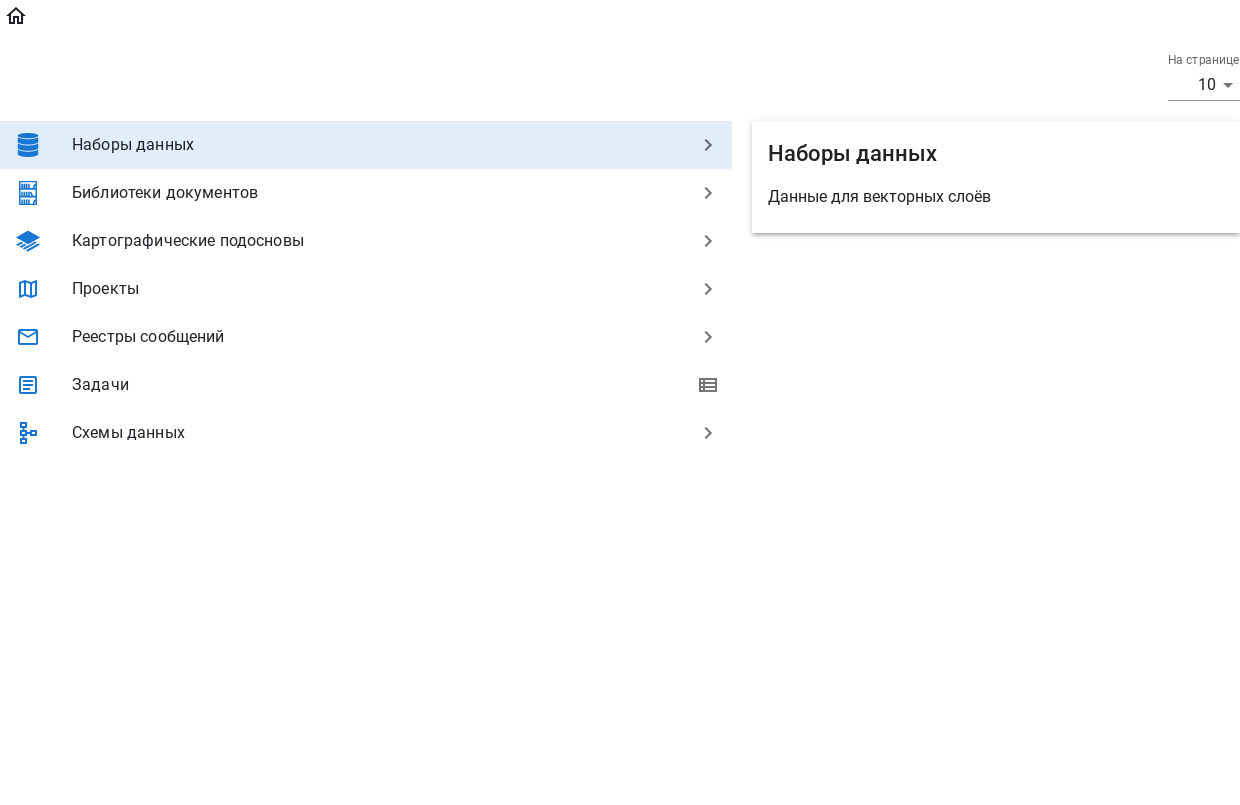
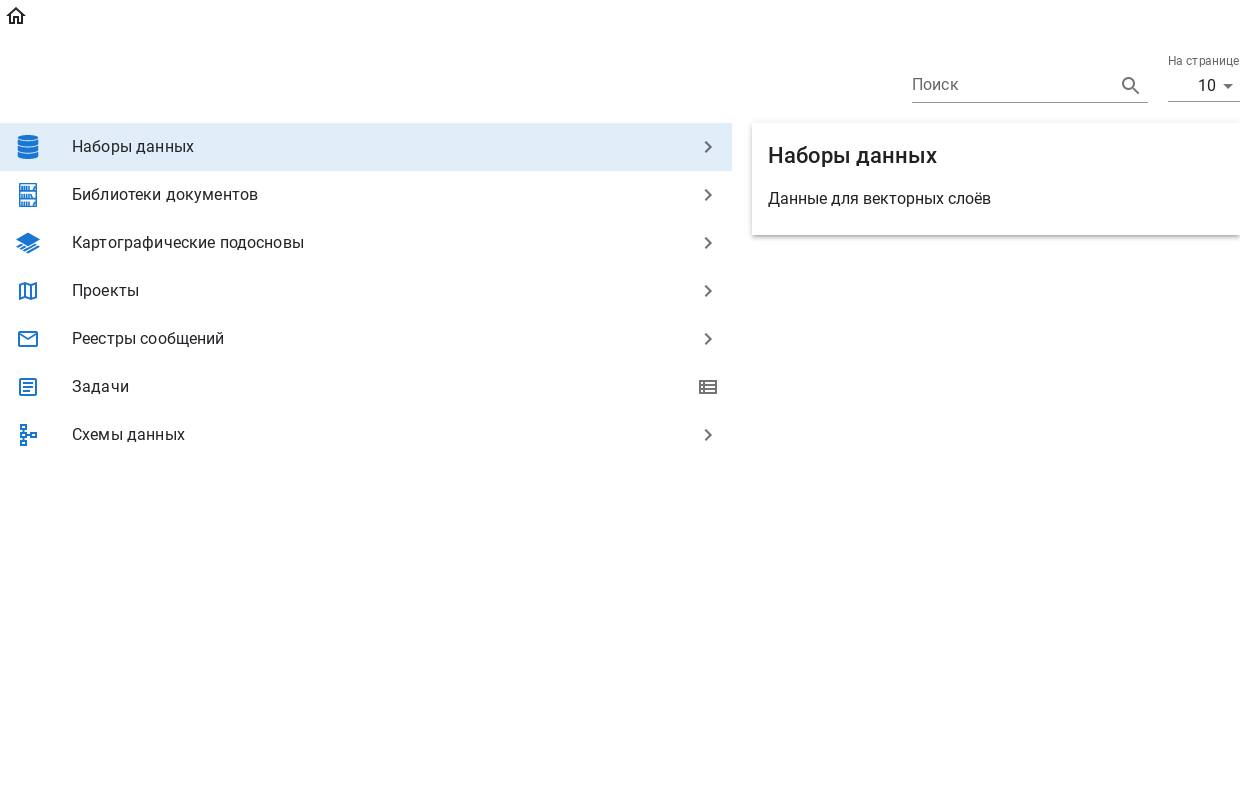
Merged PR 196: feat(ui: search): search-doc+feature
Related work items: #1149, #1161

diff --git a/portal-ui/src/app/components/ExportSearchResults/ExportSearchResults.tsx b/portal-ui/src/app/components/ExportSearchResults/ExportSearchResults.tsx
@@ -5,21 +5,22 @@ import { Tooltip } from '@mui/material';
 import { boundMethod } from 'autobind-decorator';
 import { FileUploadOutlined } from '@mui/icons-material';
 
-import { SearchItemDataTypeFeature, SearchRequest } from '../../services/data/search/search.model';
-import { ExplorerItemData, ExplorerSearchValue } from '../Explorer/Explorer.models';
+import { SearchItemData, SearchItemDataTypeFeature } from '../../services/data/search/search.model';
+import { ExplorerSearchValue } from '../Explorer/Explorer.models';
 import { getSearchResults } from '../../services/data/search/search.service';
+import { getSearchRequest } from '../../services/data/search/search.util';
 import { extractFeatureId } from '../../services/geoserver/feature.util';
 import { exportAsXLSX } from '../../services/util/export';
 import { IconButton } from '../IconButton/IconButton';
 
 interface ExportSearchResultsProps {
-  item: ExplorerItemData<ExplorerSearchValue>;
+  item: ExplorerSearchValue;
 }
 
 @observer
 export class ExportSearchResults extends Component<ExportSearchResultsProps> {
   @observable private loading = false;
-  @observable private exportSearchItems: SearchItemDataTypeFeature[] = [];
+  @observable private exportSearchItems: SearchItemData[] = [];
 
   constructor(props: ExportSearchResultsProps) {
     super(props);
@@ -28,13 +29,11 @@ export class ExportSearchResults extends Component<ExportSearchResultsProps> {
 
   render() {
     return (
-      this.props.item.payload.type === 'FEATURE' && (
-        <Tooltip title='Выгрузить в XLSX'>
-          <IconButton loading={this.loading} onClick={this.exportXLSX}>
-            <FileUploadOutlined />
-          </IconButton>
-        </Tooltip>
-      )
+      <Tooltip title='Выгрузить в XLSX'>
+        <IconButton loading={this.loading} onClick={this.exportXLSX}>
+          <FileUploadOutlined />
+        </IconButton>
+      </Tooltip>
     );
   }
 
@@ -53,6 +52,10 @@ export class ExportSearchResults extends Component<ExportSearchResultsProps> {
             `${searchItems.source.dataset}, ${searchItems.source.table}`
           ]);
         }
+
+        if (searchItems.type === 'DOCUMENT') {
+          data.push([String(searchItems.payload.id), searchItems.payload.title || '', searchItems.source.title]);
+        }
       }
     }
 
@@ -62,25 +65,14 @@ export class ExportSearchResults extends Component<ExportSearchResultsProps> {
 
   private async getData() {
     this.setLoading(true);
-    const search = this.props.item.payload;
-    let searchRequest: SearchRequest = { text: '' };
+    const searchRequest = await getSearchRequest(this.props.item);
 
-    if (search.type === 'FEATURE' && search.searchValue) {
-      searchRequest = {
-        text: search.searchValue,
-        type: 'FEATURE'
-      };
-    }
+    const [items] = await getSearchResults(searchRequest, {
+      page: 0,
+      pageSize: 50
+    });
 
-    if (searchRequest.text) {
-      const [items] = await getSearchResults(searchRequest, {
-        page: 0,
-        pageSize: 50
-      });
-
-      this.setExportSearchItems(items as SearchItemDataTypeFeature[]);
-    }
-
+    this.setExportSearchItems(items as SearchItemDataTypeFeature[]);
     this.setLoading(false);
   }
 

diff --git a/portal-ui/src/app/components/Explorer/Adapter/_type/Explorer-Adapter_type_searchResultRoot.tsx b/portal-ui/src/app/components/Explorer/Adapter/_type/Explorer-Adapter_type_searchResultRoot.tsx
@@ -1,14 +1,13 @@
 import React, { ReactNode } from 'react';
 
 import { DataChangeEventDetail, communicationService } from '../../../../services/communication.service';
-import { SearchItemData, SearchRequest } from '../../../../services/data/search/search.model';
-import { Library, LibraryRecord } from '../../../../services/data/library/library.models';
 import { ExportSearchResults } from '../../../ExportSearchResults/ExportSearchResults';
 import { getSearchResults } from '../../../../services/data/search/search.service';
+import { LibraryRecord } from '../../../../services/data/library/library.models';
+import { getSearchRequest } from '../../../../services/data/search/search.util';
+import { SearchItemData } from '../../../../services/data/search/search.model';
 import { staticImplements } from '../../../../services/util/staticImplements';
-import { getPathFilter } from '../../../DataManagement/DataManagement.utils';
 import { Emitter } from '../../../../services/common/Emitter';
-import { cqlBuild } from '../../../../services/util/cqlBuild';
 import { PageOptions } from '../../../../services/models';
 
 import { Adapter, ExplorerItemData, ExplorerItemType, ExplorerSearchValue } from '../../Explorer.models';
@@ -45,49 +44,20 @@ export class ExplorerAdapterTypeSearchResultRoot {
     item: ExplorerItemData<ExplorerSearchValue>,
     pageOptions: PageOptions
   ): Promise<[ExplorerItemData<SearchItemData>[], number]> {
-    const search = item.payload;
-    let searchRequest: SearchRequest = { text: '' };
-
-    if (search.type === 'DOCUMENT' && search.searchValue) {
-      const pathToFolder = search.path?.slice(2).map(item => (item.payload as LibraryRecord).id);
-      const library = search.path?.find(item => item.type === 'lib')?.payload as Library;
-      searchRequest = {
-        text: search.searchValue,
-        type: 'DOCUMENT'
+    const searchRequest = await getSearchRequest(item.payload);
+    const [items, pagesCount] = await getSearchResults(searchRequest, pageOptions);
+    const results = items.map(payload => {
+      return {
+        type: ExplorerItemType.SEARCH_ITEM,
+        payload: payload
       };
+    });
 
-      if (library?.table_name) {
-        searchRequest.sources = [{ library: library.table_name }];
-        if (pathToFolder) {
-          searchRequest.ecqlFilter = cqlBuild(getPathFilter(pathToFolder));
-        }
-      }
-    }
-
-    if (search.type === 'FEATURE' && search.searchValue) {
-      searchRequest = {
-        text: search.searchValue,
-        type: 'FEATURE'
-      };
-    }
-
-    if (searchRequest.text) {
-      const [items, pagesCount] = await getSearchResults(searchRequest, pageOptions);
-      const results = items.map(payload => {
-        return {
-          type: ExplorerItemType.SEARCH_ITEM,
-          payload: payload
-        };
-      });
-
-      return [results, pagesCount];
-    }
-
-    return [[], 0];
+    return [results, pagesCount];
   }
 
   static getToolbarActions(item: ExplorerItemData<ExplorerSearchValue>): ReactNode {
-    return <ExportSearchResults item={item} />;
+    return <ExportSearchResults item={item.payload} />;
   }
 
   static getRefreshEmitters(): Emitter<DataChangeEventDetail<LibraryRecord>>[] {

diff --git a/portal-ui/src/app/services/data/search/search.util.ts b/portal-ui/src/app/services/data/search/search.util.ts
@@ -1,0 +1,49 @@
+import { getAllVectorTablesInDataset } from '../../../services/data/vectorData/vectorData.service';
+import { getPathFilter } from '../../../components/DataManagement/DataManagement.utils';
+import { Library, LibraryRecord } from '../../../services/data/library/library.models';
+import { ExplorerSearchValue } from '../../../components/Explorer/Explorer.models';
+import { Dataset } from '../../../services/data/vectorData/vectorData.models';
+import { SearchRequest } from '../../../services/data/search/search.model';
+import { cqlBuild } from '../../../services/util/cqlBuild';
+
+export async function getSearchRequest(search: ExplorerSearchValue): Promise<SearchRequest> {
+  if (!search.searchValue.trim()) {
+    throw new Error('Отсутствует значение для поиска');
+  }
+
+  const searchRequest: SearchRequest = { text: search.searchValue };
+
+  if (search.type) {
+    searchRequest.type = search.type;
+  }
+
+  if (search.type === 'DOCUMENT') {
+    const pathToFolder = search.path?.slice(2).map(item => (item.payload as LibraryRecord).id);
+    const library = search.path?.find(item => item.type === 'lib')?.payload as Library;
+
+    if (library?.table_name) {
+      searchRequest.sources = [{ library: library.table_name }];
+      if (pathToFolder) {
+        searchRequest.ecqlFilter = cqlBuild(getPathFilter(pathToFolder));
+      }
+    }
+  }
+
+  if (search.type === 'FEATURE') {
+    const dataset = search.path?.find(item => item.type === 'dataset')?.payload as Dataset;
+
+    if (dataset) {
+      const tables = await getAllVectorTablesInDataset(dataset);
+      const sources = tables.map(table => {
+        return {
+          dataset: table.dataset,
+          table: table.identifier
+        };
+      });
+
+      searchRequest.sources = sources;
+    }
+  }
+
+  return searchRequest;
+}

diff --git a/portal-ui/src/app/services/data/search/search.model.ts b/portal-ui/src/app/services/data/search/search.model.ts
@@ -1,6 +1,6 @@
 import { FtsRequestDto, FtsResponseDto } from '../../../../server-types/common-contracts';
 import { GeometryType, WfsFeature } from '../../geoserver/wfs/wfs.models';
-import { LibraryRecord } from '../library/library.models';
+import { LibraryRecordRaw } from '../library/library.models';
 
 export interface SearchRequest extends Partial<FtsRequestDto> {
   text: string;
@@ -30,13 +30,13 @@ export interface SearchItemDataTypeFeature extends FtsResponseDto {
 export interface SearchRawItemDataTypeFeature extends FtsResponseDto {
   type: 'FEATURE';
   source: SearchSourceForFeature;
-  payload: Record<string, unknown>;
+  payload: { properties: Record<string, unknown> };
 }
 
 interface SearchItemDataTypeDocument extends FtsResponseDto {
   type: 'DOCUMENT';
   source: SearchSourceForDocument;
-  payload: LibraryRecord;
+  payload: LibraryRecordRaw;
 }
 
 export type SearchItemData = SearchItemDataTypeDocument | SearchItemDataTypeFeature;

diff --git a/portal-ui/src/app/components/FeaturesInProjects/FeaturesInProjects.tsx b/portal-ui/src/app/components/FeaturesInProjects/FeaturesInProjects.tsx
@@ -1,5 +1,6 @@
 import React, { FC } from 'react';
 import { List, ListItem, ListItemText } from '@mui/material';
+import { MyLocation } from '@mui/icons-material';
 import { cn } from '@bem-react/classname';
 
 import { FileConnection } from '../../services/data/files/files.models';
@@ -34,6 +35,10 @@ export const FeatureInProjects: FC<FeaturesInProjectsProps> = ({ connections, fe
                     ])}
                   >
                     {connection.project.name}
+                    <div className={cnFeaturesInProjects('IconWrapper')}>
+                      Перейти
+                      <MyLocation className={cnFeaturesInProjects('Icon')} />
+                    </div>
                   </Button>
                 }
                 secondary={connection.layer && <>Слой: {connection.layer?.title}</>}

diff --git a/portal-ui/src/app/services/data/search/search.service.ts b/portal-ui/src/app/services/data/search/search.service.ts
@@ -17,9 +17,9 @@ export async function getSearchResults(
         const schema = await schemaService.getSchema(source.schema);
         const wfsFeature: WfsFeature = {
           type: 'Feature',
-          id: `${source.table}.${String(payload.objectid)}`,
+          id: `${source.table}.${String(payload.properties.objectid)}`,
           geometry_name: getGeometryFieldName(schema),
-          properties: { ...payload }
+          properties: { ...payload.properties }
         };
 
         delete wfsFeature.properties.objectid;

diff --git a/portal-ui/src/app/components/ConnectionsFeaturesToProjectsWidget/ConnectionsFeaturesToProjectsWidget.tsx b/portal-ui/src/app/components/ConnectionsFeaturesToProjectsWidget/ConnectionsFeaturesToProjectsWidget.tsx
@@ -62,6 +62,8 @@ export class ConnectionsFeaturesToProjectsWidget extends Component<ConnectionsFe
                 open={this.dialogOpen}
                 onClose={this.closeDialog}
                 PaperProps={{ className: cnConnectionsFeaturesToProjectsWidget('Dialog') }}
+                maxWidth='sm'
+                fullWidth
               >
                 <DialogTitle>Переход к объекту в проекте:</DialogTitle>
                 <DialogContent className='scroll'>

diff --git a/portal-ui/src/app/components/LibrarySearchItemActions/Connections/LibrarySearchItemActions-Connections.tsx b/portal-ui/src/app/components/LibrarySearchItemActions/Connections/LibrarySearchItemActions-Connections.tsx
@@ -74,6 +74,8 @@ export class LibrarySearchItemActionsConnections extends Component<LibrarySearch
           open={this.dialogOpen}
           onClose={this.closeDialog}
           PaperProps={{ className: cnLibrarySearchItemActionsConnectionsDialog() }}
+          maxWidth='sm'
+          fullWidth
         >
           <DialogTitle>Переход к объекту в проекте:</DialogTitle>
           <DialogContent className='scroll'>

diff --git a/portal-ui/src/app/components/Explorer/Adapter/_type/Explorer-Adapter_type_dataset.tsx b/portal-ui/src/app/components/Explorer/Adapter/_type/Explorer-Adapter_type_dataset.tsx
@@ -159,6 +159,10 @@ export class ExplorerAdapterTypeDataset {
     return createEnabled && <CreateVectorTable dataset={item.payload} />;
   }
 
+  static hasSearch(): boolean {
+    return true;
+  }
+
   static getRefreshEmitters(): Emitter<DataChangeEventDetail<VectorTable>>[] {
     return [communicationService.vectorTableUpdated];
   }

diff --git a/portal-ui/src/app/components/Explorer/Search/Explorer-Search.tsx b/portal-ui/src/app/components/Explorer/Search/Explorer-Search.tsx
@@ -92,7 +92,7 @@ export class ExplorerSearch extends Component<ExplorerSearchProps> {
   }
 
   private setSearchInfo(value?: string) {
-    let type: FtsType = 'DOCUMENT';
+    let type: FtsType;
 
     if (
       this.props.store.openedItem.type === ExplorerItemType.LIBRARY_ROOT ||

diff --git a/portal-ui/src/app/components/FeaturesInProjects/FeaturesInProjects.scss b/portal-ui/src/app/components/FeaturesInProjects/FeaturesInProjects.scss
@@ -1,5 +1,10 @@
 .FeaturesInProjects {
-  display: block;
+  display: flex;
+  justify-content: space-between;
 
   margin-bottom: 5px;
+
+  &-Icon {
+    margin-left: 3px;
+  }
 }

diff --git a/portal-ui/src/app/components/Explorer/Adapter/_type/Explorer-Adapter_type_root.tsx b/portal-ui/src/app/components/Explorer/Adapter/_type/Explorer-Adapter_type_root.tsx
@@ -133,4 +133,8 @@ export class ExplorerAdapterTypeRoot {
       };
     }
   }
+
+  static hasSearch(): boolean {
+    return true;
+  }
 }
